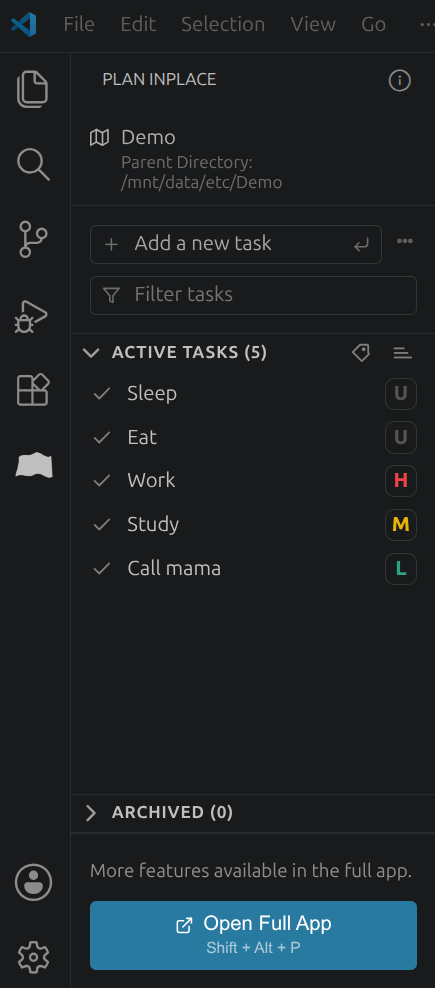
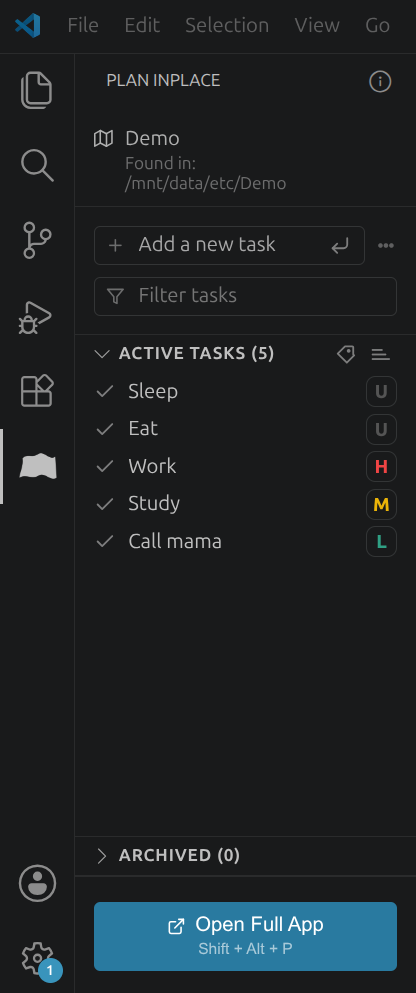
UI: VS Code sidebar scrollbar style and menu check mark

diff --git a/apps/vscode/sidebarTemplate.ts b/apps/vscode/sidebarTemplate.ts
@@ -124,7 +124,7 @@ export function getSidebarTemplate(nonce: string): string {
             // background-color: var(--vscode-list-hoverBackground);
             display: flex;
             align-items: center;
-            padding: 0 4px;
+            padding: 0 8px;
             cursor: pointer;
             flex-shrink: 0;
           }
@@ -136,7 +136,7 @@ export function getSidebarTemplate(nonce: string): string {
             letter-spacing: 0.05em;
             display: flex;
             align-items: center;
-            gap: 4px;
+            gap: 2px;
           }
           .section-arrow {
             transition: transform 0.1s;
@@ -149,11 +149,15 @@ export function getSidebarTemplate(nonce: string): string {
           .section-actions {
             display: flex;
             gap: 8px;
-            margin-right: 12px;
+            margin-right: 8px;
           }
           .section-content {
             overflow-y: auto;
+            overflow-x: hidden;
+            scrollbar-gutter: stable;
             flex: 1;
+            scrollbar-width: thin;
+            scrollbar-color: var(--vscode-scrollbarSlider-background) transparent;
           }
           .section.collapsed .section-content {
             display: none;
@@ -163,10 +167,13 @@ export function getSidebarTemplate(nonce: string): string {
             display: flex;
             align-items: center;
             padding: 0 var(--padding-side);
+            padding-right: 2px;
             gap: 8px;
           }
           .task-item:hover {
             background-color: var(--vscode-list-hoverBackground);
+            width: calc(100% - 14px);
+            padding-right: 14px;
           }
           .task-title {
             flex: 1;
@@ -243,10 +250,11 @@ export function getSidebarTemplate(nonce: string): string {
             margin: 0 var(--padding-side) 12px var(--padding-side);
           }
           svg { stroke: currentColor; fill: none; stroke-width: 2; stroke-linecap: round; stroke-linejoin: round; }
+          .section-arrow svg { stroke-width: 1; }
           .icon-sm { width: 12px; height: 12px; }
           .icon-md { width: 14px; height: 16px; }
           .icon-lg { width: 18px; height: 18px; }
-
+          
           .tooltip-wrapper {
             position: relative;
             display: inline-block;
@@ -338,6 +346,7 @@ export function getSidebarTemplate(nonce: string): string {
             background: transparent;
             color: inherit;
             text-align: left;
+            vertical-align: center;
             padding: 6px 8px;
             border-radius: 3px;
             cursor: pointer;
@@ -353,8 +362,9 @@ export function getSidebarTemplate(nonce: string): string {
           }
           .menu-check {
             width: 12px;
-            flex: 0 0 12px;
+            line-height: 12px;
             text-align: center;
+            font-size: 30px;
             opacity: 0.9;
           }
 
@@ -557,8 +567,8 @@ export function getSidebarTemplate(nonce: string): string {
                 <div class="input-container add-input">
                   <div class="input-icon">\${getIcon('plus')}</div>
                   <input id="addTaskInput" type="text" value="\${escapeHtmlText(addTaskDraft)}" placeholder="Add a new task" oninput="updateAddTaskDraft(this.value)" onkeydown="if(event.key==='Enter')addTask(this)">
-                  <div class="input-hint clickable-icon" onclick="addTask(this.previousElementSibling)">
-                    \${getIcon('return', 'icon-sm')} 
+                  <div class="clickable-icon input-hint" onclick="addTask(this.previousElementSibling)">
+                    \${getIcon('return', 'icon-md')} 
                   </div>
                   <div class="clickable-icon tooltip-wrapper">
                     <div style="opacity:0.7; margin-left: 0.5em; padding-top:4px;" onclick="toggleAddOptions(event)">
@@ -592,7 +602,7 @@ export function getSidebarTemplate(nonce: string): string {
                     <div class="section-actions">
                       <div class="tooltip-wrapper">
                         <div class="clickable-icon" onclick="showTagMenu(event)">\${getIcon('tag', 'icon-md')}</div>
-                        <span class="tooltip-text">Show tags...</span>
+                        <span class="tooltip-text">Show tag...</span>
                       </div>
                       <div class="tooltip-wrapper">
                         <div class="clickable-icon" onclick="toggleSort(event)">\${getIcon(sortMode==='none'?'sortNone':(sortMode==='asc'?'sortAsc':'sortDesc'), 'icon-md')}</div>
@@ -650,7 +660,7 @@ export function getSidebarTemplate(nonce: string): string {
                             <span class="tooltip-text">Restore</span>
                           </div>
                           <div class="task-title completed" title="\${escapeHtmlText(task.title)}">\${escapeHtmlText(task.title)}</div>
-                          <div class="task-btn-right tooltip-wrapper" style="border:none; padding:0; margin-right:3px;">
+                          <div class="tooltip-wrapper" style="margin-right:4px;">
                             <div class="clickable-icon danger" onclick="deleteTask(event, '\${task.id}')">\${getIcon('trash', 'icon-md')}</div>
                             <span class="tooltip-text">Delete permanently</span>
                           </div>
@@ -710,8 +720,8 @@ export function getSidebarTemplate(nonce: string): string {
           window.showTagMenu = (e) => {
             e.stopPropagation();
             openMenu(e.currentTarget, \`<div class="menu">
-              <button class="menu-item" onclick="setTagMode(event, 'priority')"><span class="menu-check">\${tagMode === 'priority' ? '●' : ''}</span>Show priority</button>
-              <button class="menu-item" onclick="setTagMode(event, 'status')"><span class="menu-check">\${tagMode === 'status' ? '●' : ''}</span>Show status</button>
+              <button class="menu-item" onclick="setTagMode(event, 'priority')"><span class="menu-check">\${tagMode === 'priority' ? '•' : ''}</span>Show Priority</button>
+              <button class="menu-item" onclick="setTagMode(event, 'status')"><span class="menu-check">\${tagMode === 'status' ? '•' : ''}</span>Show Status</button>
             </div>\`, 'show-tag-menu');
           };
           window.setTagMode = (e, mode) => { e.stopPropagation(); tagMode = mode; persistState(); closeMenu(); render(); };
@@ -721,11 +731,11 @@ export function getSidebarTemplate(nonce: string): string {
             if (!task) return;
             if (tagMode === 'priority') {
               const opts = ['Unassigned','High','Medium','Low'];
-              openMenu(e.currentTarget, \`<div class="menu"><div class="menu-title">Change priority</div>\${opts.map(opt => \`<button type="button" class="menu-item" onclick="updateCategory(event, '\${taskId}', 'priority', '\${opt}')"><span class="menu-check">\${task.priority===opt?'●':''}</span>\${escapeHtmlText(opt)}</button>\`).join('')}</div>\`, 'task-tag-' + taskId);
+              openMenu(e.currentTarget, \`<div class="menu"><div class="menu-title">Change priority</div>\${opts.map(opt => \`<button type="button" class="menu-item" onclick="updateCategory(event, '\${taskId}', 'priority', '\${opt}')"><span class="menu-check">\${task.priority===opt?'•':''}</span>\${escapeHtmlText(opt)}</button>\`).join('')}</div>\`, 'task-tag-' + taskId);
               return;
             }
             const sopts = getStatusOptions();
-            openMenu(e.currentTarget, \`<div class="menu"><div class="menu-title">Change status</div>\${sopts.map(opt => \`<button type="button" class="menu-item" onclick="updateCategory(event, '\${taskId}', 'status', '\${opt.id}')"><span class="menu-check">\${task.status===opt.id?'●':''}</span>\${escapeHtmlText(opt.label)}</button>\`).join('')}</div>\`, 'task-tag-' + taskId);
+            openMenu(e.currentTarget, \`<div class="menu"><div class="menu-title">Change status</div>\${sopts.map(opt => \`<button type="button" class="menu-item" onclick="updateCategory(event, '\${taskId}', 'status', '\${opt.id}')"><span class="menu-check">\${task.status===opt.id?'•':''}</span>\${escapeHtmlText(opt.label)}</button>\`).join('')}</div>\`, 'task-tag-' + taskId);
           };
           window.updateCategory = (e, taskId, field, value) => { e.stopPropagation(); closeMenu(); vscode.postMessage({ type: 'updateTaskField', taskId, field, value }); };
           window.clearArchived = (e) => { e.stopPropagation(); vscode.postMessage({ type: 'clearArchived' }); };
